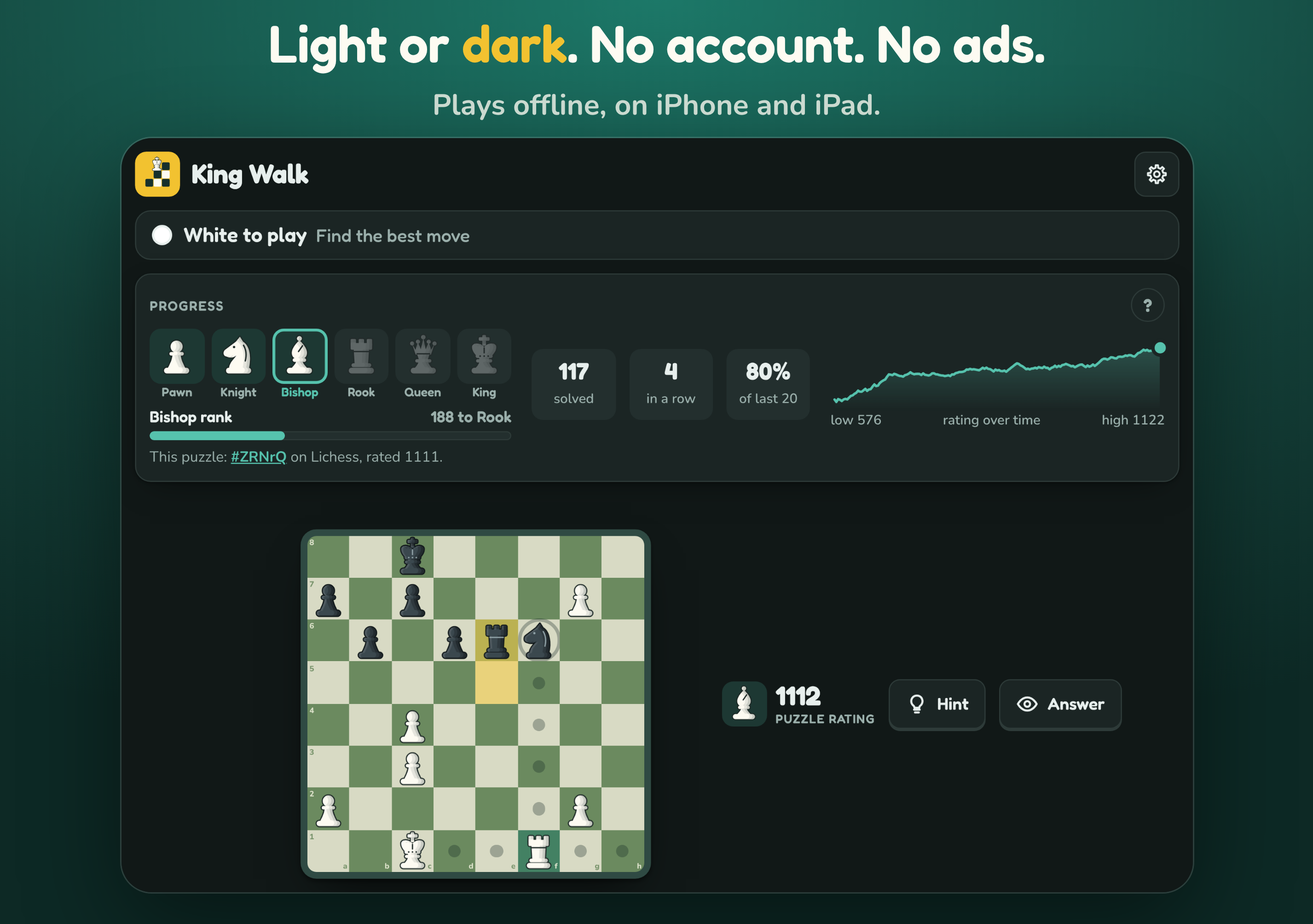
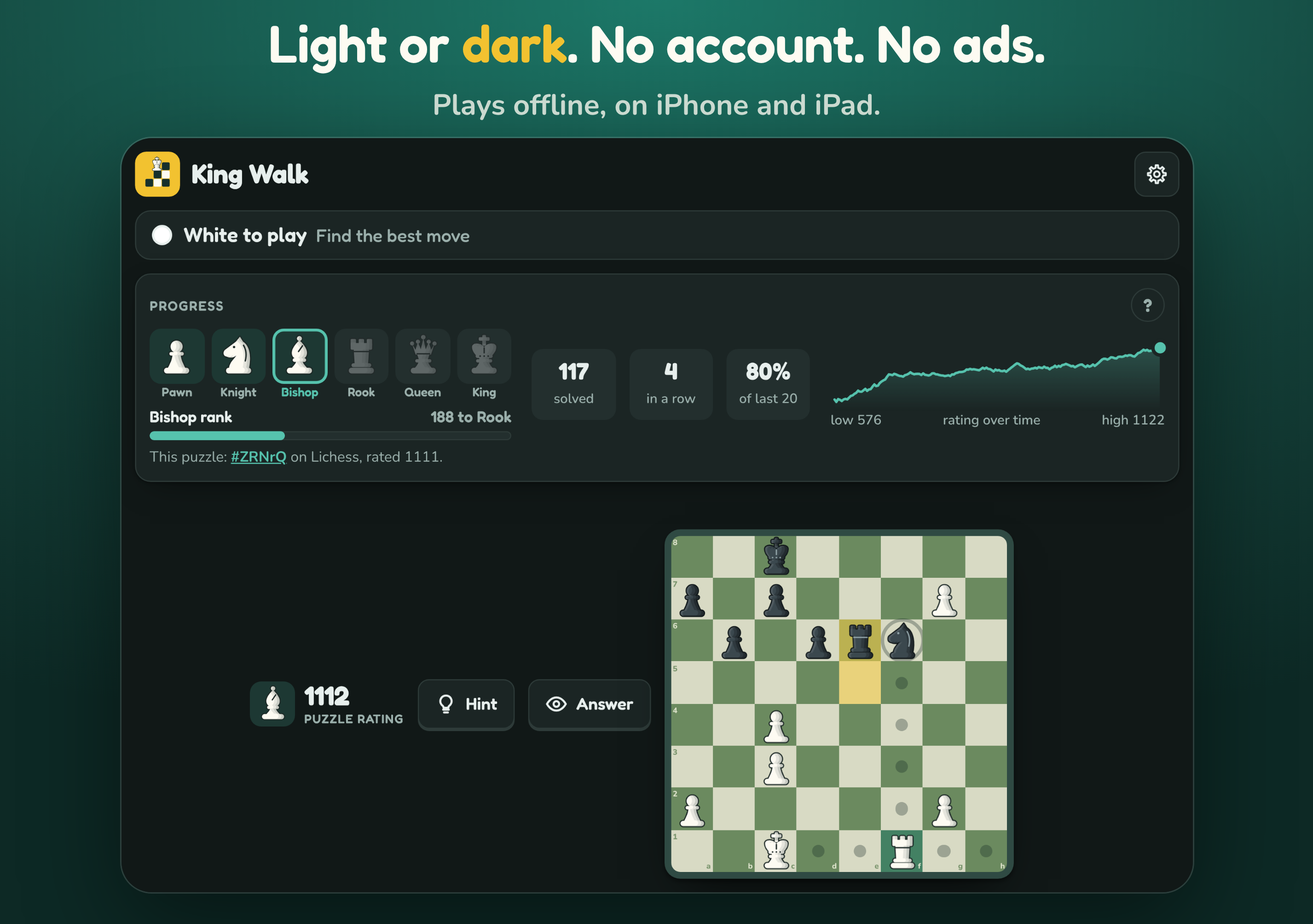
Book layout for iPhone Duo, and a left-handed layout
- Held like a book: the board page (status, board, buttons, ladder and stats) and a notes page (the rating
  chart and how ranks work), each filled. The board is on the right page.
- Propped up like a laptop and with a phone on its side, the board is now on the right too.
- Menu → Left-handed layout puts the board on the left in all three.
- Tests for the board's side in each layout; book screenshots; events fold/book, lefty-on, lefty-off.

Claude-Session: https://claude.ai/code/session_01Gz6UpCNqeV6v9yfsNTJcE1

Changed region(s): [[0.1872, 0.5561, 0.8423, 0.9576]]

diff --git a/index.html b/index.html
@@ -104,11 +104,13 @@ body { margin: 0; background: var(--bg); color: var(--fg); font-family: var(--fo
   .progress { width: 100%; }
 }
 @supports (height: 100dvh) { @media (min-width: 840px) { .wrap { --bw: min(616px, max(276px, calc(100dvh - var(--u) * 6 - var(--bar) - 88px)), calc(100vw - var(--u) * 2 - 366px)); } } }
-/* phone held sideways: board on the left sized to the screen height, everything else on the right
-   (the header moves to the right column too, so the board can use the whole height; the board stays put as the right side scrolls) */
+/* phone held sideways: the board on one side sized to the screen height, everything else beside it. The board is on
+   the right, under a right thumb; the Left-handed layout setting (html.board-left) puts it on the left. The header
+   moves into the other column, so the board can use the whole height; the board stays put as that column scrolls. */
 @media (orientation: landscape) and (max-height: 520px) {
-  .wrap { --bw: max(230px, calc(100vh - var(--u) * 2)); max-width: 1100px; grid-template-columns: var(--bw) minmax(0, 1fr); column-gap: 14px; align-items: start;
-    grid-template-areas: "board top" "board menu" "board status" "board actions" "board progress"; grid-template-rows: auto auto auto auto 1fr; }
+  .wrap { --bw: max(230px, calc(100vh - var(--u) * 2)); max-width: 1100px; grid-template-columns: minmax(0, 1fr) var(--bw); column-gap: 14px; align-items: start;
+    grid-template-areas: "top board" "menu board" "status board" "actions board" "progress board"; grid-template-rows: auto auto auto auto 1fr; }
+  html.board-left .wrap { grid-template-columns: var(--bw) minmax(0, 1fr); grid-template-areas: "board top" "board menu" "board status" "board actions" "board progress"; }
   .main { display: contents; }
   .main > * + * { margin-top: var(--gap); }
   .top { grid-area: top; } .menu { grid-area: menu; }
@@ -122,7 +124,8 @@ body { margin: 0; background: var(--bg); color: var(--fg); font-family: var(--fo
    its buttons lie on the bottom half, under your hands. Nothing sits on the fold. --fold-a is where the fold starts
    from the top of the screen and --fold-w how tall it is. The page's blocks become cells of one grid (.main's
    display: contents), so the halves can mix blocks from the header and the main area. A fold from top to bottom
-   (held like a book) keeps the usual layout. */
+   (held like a book) has its own layout below. The board is on the right half, or the left with the Left-handed
+   layout setting (html.board-left). */
 html.fold-h { overflow: hidden; }
 html.fold-h body { padding: 0; }
 html.fold-h body::before { display: none; }
@@ -133,7 +136,7 @@ html.fold-h .wrap {
   --bw: min(calc(100dvh - var(--fold-a) - var(--fold-w) - var(--u) * 2), calc(55vw - var(--u) * 2));
   grid-template-columns: minmax(0, 1fr) minmax(0, 1fr);
   grid-template-rows: auto auto minmax(0, 1fr) var(--fold-w) calc(100dvh - var(--fold-a) - var(--fold-w));
-  grid-template-areas: "top top" "status status" "progress progress" ". ." "board actions";
+  grid-template-areas: "top top" "status status" "progress progress" ". ." "actions board";
   column-gap: var(--u);
 }
 html.fold-h .top { grid-area: top; width: auto; justify-self: stretch; margin: var(--u) var(--u) var(--gap); }
@@ -147,9 +150,44 @@ html.fold-h .progress > :nth-child(1) { grid-area: head; }
 html.fold-h .progress > .ladder { grid-area: ladder; } html.fold-h .progress > .lad-names { grid-area: names; }
 html.fold-h .progress > .rank-txt { grid-area: rank; } html.fold-h .progress > .stats { grid-area: stats; align-self: center; }
 html.fold-h .progress > :nth-child(6) { grid-area: chart; align-self: center; } html.fold-h .progress > .note { grid-area: info; }
-html.fold-h .frame { width: var(--bw); align-self: center; justify-self: end; }
-html.fold-h .actions { width: auto; align-self: center; margin-right: var(--u); max-width: 420px; }
+html.fold-h .frame { width: var(--bw); align-self: center; justify-self: start; }
+html.fold-h .actions { width: auto; align-self: center; justify-self: end; margin-left: var(--u); max-width: 420px; }
+/* left-handed: the board on the left half, the buttons on the right */
+html.fold-h.board-left .wrap { grid-template-areas: "top top" "status status" "progress progress" ". ." "board actions"; }
+html.fold-h.board-left .frame { justify-self: end; }
+html.fold-h.board-left .actions { justify-self: start; margin-left: 0; margin-right: var(--u); }
 html.fold-h .actions .bar-row { flex-wrap: wrap; }
+/* ---------- a fold from top to bottom (iPhone Duo or another foldable, held like a book) ----------
+   Two pages, each a column (foldLayout moves the blocks into them): the board page has the status, the board, its
+   buttons and the rank ladder with the stats; the other page has the header and the rest of the progress card, its
+   rating chart grown to fill the page. The board page is on the right, or the left with the Left-handed layout. */
+html.fold-v { overflow: hidden; }
+html.fold-v body { padding: 0; }
+html.fold-v body::before { display: none; }
+html.fold-v .wrap { display: flex; max-width: none; height: 100vh; height: 100dvh; padding: 0; gap: var(--fold-w); }
+html.fold-v .wrap > .main { display: none; }
+.page { display: none; }
+html.fold-v .page { display: flex; flex-direction: column; gap: var(--gap); flex: none; height: 100%; box-sizing: border-box; padding: var(--u); overflow: auto; }
+html.fold-v .page > * { width: auto; margin: 0; justify-self: auto; }
+html.fold-v .page.notes { order: 1; width: var(--fold-a); }
+html.fold-v .page.board { order: 2; width: calc(100vw - var(--fold-a) - var(--fold-w)); justify-content: center; }
+html.fold-v.board-left .page.board { order: 1; width: var(--fold-a); }
+html.fold-v.board-left .page.notes { order: 2; width: calc(100vw - var(--fold-a) - var(--fold-w)); }
+html.fold-v .page.board .frame { width: 100%; }
+html.fold-v .page.notes .progress { flex: 1 1 auto; display: flex; flex-direction: column; min-height: 0; }
+html.fold-v .page.notes .progress > div:has(.chart-wrap) { flex: 1 1 auto; display: flex; flex-direction: column; min-height: 140px; }
+html.fold-v .page.notes .chart-wrap { flex: 1 1 auto; height: auto; min-height: 120px; max-height: 240px; }
+html.fold-v .page.notes .progress > div:has(.chart-wrap) { max-height: 280px; }
+/* the notes page also shows how ranks and ratings work, open, like the commentary beside a diagram */
+html.fold-v .page.notes #rankHelp { grid-template-rows: 1fr; opacity: 1; margin-top: var(--gap); }
+html.fold-v .page.notes #helpBtn { display: none; }
+html.fold-v .page.board .play-btns .btn svg.ic { display: none; }
+html.fold-v .page.board .play-btns .btn { padding: 0 12px; }
+html.fold-v .page.board .bar-row { flex-wrap: wrap; row-gap: var(--gap); }
+html.fold-v .page.board .done-btns { flex: 1 1 100%; max-width: none; }
+html.fold-v .page.notes .menu { flex: none; }
+.ranks-card { display: none; }
+html.fold-v .page.board .ranks-card { display: grid; }
 /* tablets held upright (iPad): one column with a big board, the progress card below it */
 @media (min-width: 700px) and (orientation: portrait) and (min-height: 960px) {
   .wrap { max-width: none; --bw: min(calc(100vw - var(--u) * 2), calc(100vh - 470px), 900px); }
@@ -472,6 +510,7 @@ body::before { content: ""; position: fixed; inset: 0 0 auto; height: env(safe-a
       <div class="card stack">
         <p class="label">Settings</p>
         <div class="setrow"><span id="soundLabel">Sound</span><button type="button" id="soundBtn" class="switch" aria-pressed="true" aria-labelledby="soundLabel"></button></div>
+        <div class="setrow" title="With the phone on its side or folded, put the board on the left instead of the right"><span id="leftyLabel">Left-handed layout</span><button type="button" id="leftyBtn" class="switch" aria-pressed="false" aria-labelledby="leftyLabel"></button></div>
         <div class="setrow" id="hapticsRow" hidden><span id="hapticsLabel">Haptics</span><button type="button" id="hapticsBtn" class="switch" aria-pressed="true" aria-labelledby="hapticsLabel"></button></div>
         <div class="setrow"><span>Puzzle difficulty</span>
           <div class="seg" id="modeSeg">
@@ -670,11 +709,11 @@ function cleanState(raw) {
     players.push(q);
   }
   if (!players.length) return null;
-  return { v: 2, updatedAt: +raw.updatedAt || 0, cur: clamp(raw.cur | 0, 0, players.length - 1), sound: raw.sound !== false, haptics: raw.haptics !== false, rateAsked: +raw.rateAsked || 0, players };
+  return { v: 2, updatedAt: +raw.updatedAt || 0, cur: clamp(raw.cur | 0, 0, players.length - 1), sound: raw.sound !== false, haptics: raw.haptics !== false, lefty: raw.lefty === true, rateAsked: +raw.rateAsked || 0, players };
 }
 function writeLocal() { try { localStorage.setItem(LS_KEY, JSON.stringify(S)); } catch (e) {} }
 function loadLocal() { try { return cleanState(JSON.parse(localStorage.getItem(LS_KEY))); } catch (e) { return null; } }
-let S = loadLocal() || { v: 2, updatedAt: 0, cur: 0, sound: true, haptics: true, rateAsked: 0, players: [newPlayer(START_RATING)] };
+let S = loadLocal() || { v: 2, updatedAt: 0, cur: 0, sound: true, haptics: true, lefty: false, rateAsked: 0, players: [newPlayer(START_RATING)] };
 if (S.updatedAt) writeLocal();          /* store the cleaned copy */
 const me = () => S.players[S.cur];
 function save() { S.updatedAt = Date.now(); writeLocal(); }
@@ -1339,6 +1378,8 @@ function renderPanel(fromRating) {
   $("modeSeg").style.setProperty("--i", MODE_INDEX[p.mode]);
   $("soundBtn").setAttribute("aria-pressed", String(S.sound));
   $("hapticsBtn").setAttribute("aria-pressed", String(S.haptics !== false));
+  $("leftyBtn").setAttribute("aria-pressed", String(!!S.lefty));
+  document.documentElement.classList.toggle("board-left", !!S.lefty);
   /* chart: every value is a number from cleanState or finish, so building the markup from them is safe */
   const h = p.hist, mn = Math.min(...h), mx = Math.max(...h), span = Math.max(40, mx - mn);
   const X = i => h.length < 2 ? 296 : 4 + i / (h.length - 1) * 292, Y = v => 56 - (v - mn) / span * 48;
@@ -1356,6 +1397,7 @@ $("nextBtn").addEventListener("click", nextPuzzle);
 $("menuBtn").addEventListener("click", () => toggleSection($("menuBtn"), $("menu")));
 $("helpBtn").addEventListener("click", () => toggleSection($("helpBtn"), $("rankHelp")));
 $("soundBtn").addEventListener("click", () => { S.sound = !S.sound; save(); renderPanel(); wakeAudio(); if (S.sound) setTimeout(sfx.move, 60); else track("sound-off"); haptic("toggle"); });
+$("leftyBtn").addEventListener("click", () => { S.lefty = !S.lefty; save(); renderPanel(); haptic("toggle"); track(S.lefty ? "lefty-on" : "lefty-off"); });
 $("hapticsBtn").addEventListener("click", () => { S.haptics = S.haptics === false; save(); renderPanel(); if (S.haptics) haptic("toggle"); else track("haptics-off"); });
 $("modeSeg").addEventListener("click", e => { const b = e.target.closest("button"); if (b && MODES[b.dataset.mode] !== undefined && me().mode !== b.dataset.mode) { me().mode = b.dataset.mode; save(); renderPanel(); haptic("toggle"); track("mode/" + b.dataset.mode); } });
 $("shareBtn").addEventListener("click", () => shareProgress($("shareBtn")));
@@ -1407,7 +1449,7 @@ $("loadCode").addEventListener("click", () => {
 /* ---------- a fold (see the CSS) ----------
    The iOS app on iPhone Duo reports the fold with window.kingWalkFold({x, y, w, h}) in CSS pixels (null when there
    is none); other foldables report it through the browser's viewport segments. ?fold=h fakes one across the
-   middle of the screen, for testing and the store screenshots (?fold=v, one from top to bottom, changes nothing). */
+   middle of the screen (?fold=v one from top to bottom), for testing and the store screenshots. */
 const Fold = { app: null, fake: (location.search.match(/[?&]fold=([vh])/) || [])[1], key: "" };
 function foldRect() {
   if (Fold.app) return Fold.app;
@@ -1420,16 +1462,33 @@ function foldRect() {
   if (Fold.fake === "h") return { x: 0, y: innerHeight / 2, w: innerWidth, h: 0 };
   return null;
 }
+/* Held like a book, the blocks move into two page columns (see the CSS), and back when the fold goes */
+const Book = { moved: [], pages: null };
+function bookPages(on) {
+  if (on === !!Book.moved.length) return;
+  if (!on) { while (Book.moved.length) { const [n, parent, next] = Book.moved.pop(); parent.insertBefore(n, next); } return; }
+  if (!Book.pages) {
+    const mk = cls => { const d = document.createElement("div"); d.className = "page " + cls; document.querySelector(".wrap").append(d); return d; };
+    const ranks = document.createElement("section"); ranks.className = "card stack ranks-card"; ranks.setAttribute("aria-label", "Rank");
+    Book.pages = { notes: mk("notes"), board: mk("board"), ranks };
+  }
+  const move = (n, to) => { Book.moved.push([n, n.parentNode, n.nextSibling]); to.append(n); };
+  const P = Book.pages, prog = document.querySelector(".progress");
+  move(document.querySelector(".top"), P.notes); move($("menu"), P.notes); move(prog, P.notes);
+  move($("status"), P.board); move(frameEl, P.board); move(document.querySelector(".actions"), P.board); move(P.ranks, P.board);
+  for (const sel of [".ladder", ".lad-names", ".rank-txt", ".stats"]) move(prog.querySelector(sel), P.ranks);
+}
 function foldLayout() {
   const f = foldRect(), root = document.documentElement;
-  const kind = f && f.w > f.h ? "h" : "";          /* only a fold across the screen changes the layout (see the CSS) */
+  const kind = f ? (f.w > f.h ? "h" : "v") : "";          /* across: laptop; top to bottom: book (see the CSS) */
   const key = kind + (f ? [f.x, f.y, f.w, f.h].map(Math.round).join() : "");
   if (key === Fold.key) return;
   const changed = !!Fold.key !== !!kind || Fold.key[0] !== kind;
   Fold.key = key;
-  root.classList.toggle("fold-h", kind === "h");
-  if (kind) { root.style.setProperty("--fold-a", Math.max(0, f.y) + "px"); root.style.setProperty("--fold-w", Math.max(0, f.h) + "px"); }
-  if (changed && kind) { track("fold/table"); haptic("toggle"); }
+  root.classList.toggle("fold-h", kind === "h"); root.classList.toggle("fold-v", kind === "v");
+  if (kind) { root.style.setProperty("--fold-a", Math.max(0, kind === "v" ? f.x : f.y) + "px"); root.style.setProperty("--fold-w", Math.max(0, kind === "v" ? f.w : f.h) + "px"); }
+  bookPages(kind === "v");
+  if (changed && kind) { track(kind === "v" ? "fold/book" : "fold/table"); haptic("toggle"); }
 }
 window.kingWalkFold = r => { Fold.app = r && (r.w > 0 || r.h > 0 || r.x > 0 || r.y > 0) ? r : null; foldLayout(); };
 foldLayout(); addEventListener("resize", foldLayout);

diff --git a/testing/smoke.js b/testing/smoke.js
@@ -74,15 +74,18 @@ async function run(b, url, app) {
     }
     console.log(name, "rating", r.rating, app ? "messages " + [...new Set(r.sent)].join(", ") : "");
   }
-  // a fold across the screen (iPhone Duo propped up): the board stays below it
-  for (const [w, h, q, cls] of [[951, 669, "?fold=h", "fold-h"]]) {
+  // the board's side: right for right-handed players, left with the Left-handed layout; on screen, off the fold.
+  // Held like a book (fold-v), propped up like a laptop (fold-h, the board below the fold too), a phone on its side
+  for (const lefty of [false, true]) for (const [w, h, q, name] of [[669, 951, "?fold=v", "book"], [951, 669, "?fold=h", "laptop"], [844, 390, "", "sideways"]]) {
     const ctx = await b.newContext({ viewport: { width: w, height: h } }), p = await ctx.newPage();
-    await p.route(/zgo\.at|goatcounter/, r => r.abort()); await p.goto(srv.url + q); await p.waitForTimeout(800);
-    const f = await p.evaluate(() => { const r = $("frame").getBoundingClientRect(), g = $("status").getBoundingClientRect();
-      return { cls: document.documentElement.className, board: [r.left, r.top, r.right, r.bottom], status: [g.left, g.top, g.right, g.bottom], w: innerWidth, h: innerHeight }; });
-    const mid = cls === "fold-v" ? f.w / 2 : f.h / 2, [a, , c] = cls === "fold-v" ? [f.board[0], 0, f.board[2]] : [f.board[1], 0, f.board[3]];
-    const ok = f.cls.includes(cls) && (c <= mid + 1 || a >= mid - 1) && f.board[2] <= f.w + 1 && f.board[3] <= f.h + 1;
-    if (!ok) { bad++; console.log("FAIL", cls, "board crosses the fold or the screen edge", JSON.stringify(f)); } else console.log(cls, "board on one side of the fold");
+    await p.route(/zgo\.at|goatcounter/, r => r.abort());
+    if (lefty) await p.addInitScript(() => { if (!sessionStorage.getItem("s")) { sessionStorage.setItem("s", 1); localStorage.setItem("chess-climb-v1", JSON.stringify({ v: 2, updatedAt: 1, cur: 0, sound: true, lefty: true, players: [{ rating: 600, hist: [600] }] })); } });
+    await p.goto(srv.url + q); await p.waitForTimeout(900);
+    const f = await p.evaluate(() => { const r = $("frame").getBoundingClientRect(); return { l: r.left, t: r.top, r: r.right, b: r.bottom, w: innerWidth, h: innerHeight }; });
+    const onLeft = f.r <= f.w / 2 + 1, onRight = f.l >= f.w / 2 - 1, below = f.t >= f.h / 2 - 1;
+    const ok = (lefty ? onLeft : onRight) && f.r <= f.w + 1 && f.b <= f.h + 1 && (name !== "laptop" || below);
+    const label = name + (lefty ? ", left-handed" : "");
+    if (!ok) { bad++; console.log("FAIL", label, "board in the wrong place", JSON.stringify(f)); } else console.log(label + ": board on the " + (lefty ? "left" : "right"));
     await ctx.close();
   }
   await b.close(); srv.close();

diff --git a/ios/store/screenshots.js b/ios/store/screenshots.js
@@ -1,6 +1,6 @@
 // Makes the App Store screenshots: loads the game with a saved player partway up the ranks, poses five moments,
 // captures the screen at the exact device size, then frames each with a caption.
-// usage: node ios/store/screenshots.js [iphone|ipad|duo-inner|duo-table]   (default: all). Needs Playwright.
+// usage: node ios/store/screenshots.js [iphone|ipad|duo-inner|duo-book|duo-table]   (default: all). Needs Playwright.
 // Output: ios/store/screenshots/<device>-<n>.png (captioned, upload these) and raw/<device>-<n>.png.
 const { chromium } = require("playwright");
 const fs = require("fs"), path = require("path");
@@ -8,14 +8,16 @@ const server = require("../../testing/server");
 const DEVICES = {   // App Store sizes: iPhone 6.9" 1320x2868, iPad 13" 2064x2752, iPhone Duo inner screen 2007x2853
   iphone: { viewport: { width: 440, height: 956 }, deviceScaleFactor: 3, isMobile: true, hasTouch: true },
   ipad: { viewport: { width: 1032, height: 1376 }, deviceScaleFactor: 2, isMobile: true, hasTouch: true },
-  // iPhone Duo: open flat, and propped up like a laptop (q fakes the fold across the middle; see Fold in index.html)
+  // iPhone Duo: open flat, held like a book and propped up like a laptop (q fakes the fold; see Fold in index.html)
   "duo-inner": { viewport: { width: 669, height: 951 }, deviceScaleFactor: 3, isMobile: true, hasTouch: true },
+  "duo-book": { viewport: { width: 669, height: 951 }, deviceScaleFactor: 3, isMobile: true, hasTouch: true, q: "?fold=v" },
   "duo-table": { viewport: { width: 951, height: 669 }, deviceScaleFactor: 3, isMobile: true, hasTouch: true, q: "?fold=h" },
 };
 const FRAME = { iphone: { cap: 34, sub: 19, top: 0.17, r: 30 }, ipad: { cap: 56, sub: 28, top: 0.15, r: 22 },   // caption sizes, caption band height, corner radius
-  "duo-inner": { cap: 40, sub: 22, top: 0.17, r: 26 }, "duo-table": { cap: 38, sub: 21, top: 0.15, r: 22 } };
+  "duo-inner": { cap: 40, sub: 22, top: 0.17, r: 26 }, "duo-book": { cap: 40, sub: 22, top: 0.17, r: 26 }, "duo-table": { cap: 38, sub: 21, top: 0.15, r: 22 } };
 // captions that say what a half-open iPhone Duo does, in place of the usual ones
 const CAPTIONS = {
+  "duo-book": { 1: { caption: "Open it like a <b>book</b>", sub: "The board on one page, the notes on the other." } },
   "duo-table": { 1: { caption: "Prop it up like a <b>laptop</b>", sub: "The board lies flat under your hands. Your progress stands up to read." } },
 };
 const SHOTS = [

diff --git a/press/index.html b/press/index.html
@@ -57,7 +57,7 @@ footer{margin-top:56px;padding-top:18px;border-top:1px solid var(--line);font-si
       <li>Easier, Just right or Harder, to set the pace</li>
       <li>iPhone and iPad: Game Center leaderboards and 13 achievements, a home screen and Lock Screen widget, iCloud sync, haptics</li>
       <li>Share your progress as a few emoji: rank, rating and the last ten puzzles</li>
-      <li>On iPhone Duo, prop it up like a laptop: the board lies flat under your hands, your progress stands up to read</li>
+      <li>On iPhone Duo, prop it up like a laptop or hold it like a book, with the board on whichever side suits your hand</li>
       <li>Light and dark mode, plays offline</li>
       <li>No account, no ads, no in-app purchases</li>
     </ul>

diff --git a/ios/store/listing.md b/ios/store/listing.md
@@ -11,7 +11,7 @@ The text, URLs, categories, age rating, review notes and screenshots are uploade
 | App icon (light, dark, tinted) | 1024×1024 | `node ios/scripts/art.js` from `brand/mark-square.svg` | Done: `ios/KingWalk/Assets.xcassets/AppIcon.appiconset/` |
 | iPhone screenshots, 6.9" | 1320×2868, 3 to 10 | `node ios/store/screenshots.js iphone` | Done: `screenshots/iphone-1` to `5` |
 | iPad screenshots, 13" | 2064×2752, 3 to 10 | `node ios/store/screenshots.js ipad` | Done: `screenshots/ipad-1` to `5` |
-| iPhone Duo screenshots | inner screen 2007×2853 (open) and 2853×2007 (propped up) | `node ios/store/screenshots.js duo-inner`, `duo-table` | Done: one set of five, `APP_IPHONE_DUO` in `listing.json` |
+| iPhone Duo screenshots | inner screen 2007×2853 (open, or held like a book) and 2853×2007 (propped up) | `node ios/store/screenshots.js duo-inner`, `duo-book`, `duo-table` | Done: one set of five, `APP_IPHONE_DUO` in `listing.json` |
 | App preview video (iPhone, also used for iPhone Duo) | 886×1920, 15 to 30 s, stereo audio track | `node scripts/trailer.js --preview` | `previews/iphone-1.mp4` |
 | Product page header and search results art (iOS 27) | 5244×2950 (16:9), no alpha | `node ios/store/header.js` | Done: `header/universal-16x9.png` (+ 21:9 and 3:2 cuts) |
 | Game Center achievement images | 512×512, 13 of them | `node ios/scripts/art.js` | Done: `gamecenter/*.png` |
@@ -57,7 +57,8 @@ Optional, later: a Promotional Event card (needs a 1920×1080 image, no text), i
 > • Game Center leaderboards and achievements
 > • A home screen and Lock Screen widget with your rank and rating
 > • Share your progress: your rank, rating and last ten puzzles in a few emoji
-> • On iPhone Duo, prop it up like a laptop: the board lies flat under your hands and your progress stands up to read
+> • On iPhone Duo, prop it up like a laptop (the board lies flat under your hands) or hold it like a book (the board on one page, the notes on the other)
+> • A left-handed layout that puts the board on the left when your phone is on its side or folded
 > • Progress syncs between your iPhone and iPad with iCloud
 > • Haptics, light and dark mode, and a board you can tap or drag
 > • Plays fully offline
@@ -85,7 +86,7 @@ Five per device, in this order. Each is the real game at the device's size, fram
 | 4 | Walk up from Pawn to King | The progress card right after reaching Rook: the ladder, stats and chart |
 | 5 | Light or dark. No account. No ads. | Dark mode, a piece picked up with its moves shown |
 
-**iPhone Duo** (one set, `APP_IPHONE_DUO`): `duo-table-1` ("Prop it up like a laptop": the board on the flat half, the scoreboard on the upright half), `duo-inner-2`, `duo-table-4`, `duo-inner-3`, `duo-table-5`. The other `duo-*` files are there to swap in. If Apple's API refuses the Duo type, the upload skips that set and says so; it can go up by hand.
+**iPhone Duo** (one set, `APP_IPHONE_DUO`): `duo-table-1` ("Prop it up like a laptop": the board on the flat half, the scoreboard on the upright half), `duo-book-2` (held like a book: the board on the right page), `duo-table-4`, `duo-inner-3`, `duo-table-5`. The other `duo-*` files are there to swap in. If Apple's API refuses the Duo type, the upload skips that set and says so; it can go up by hand.
 
 Ideas for later sets: the widget on a home screen (needs a real device screenshot), Game Center achievements, an iPad landscape shot, the emoji share text in Messages.
 
@@ -135,7 +136,7 @@ Uploaded from `review_notes` in `listing.json` (App Review Information → Notes
 > - Home screen and Lock Screen widget: shows the player's rank and rating.
 >
 > WHAT THE APP ADDS ON iOS
-> Haptic feedback for moves, captures, wrong moves and solves; Game Center leaderboards (puzzle rating, best streak) and 13 achievements; a home screen and Lock Screen widget; iCloud sync of progress between the player's devices; the iOS share sheet (an emoji summary of the player's progress with a link to the App Store page); on iPhone Duo half open like a laptop, a layout with the board on the flat half and progress on the upright half; light and dark appearance, portrait and landscape. All 53,000 puzzles are bundled, so it plays fully offline.
+> Haptic feedback for moves, captures, wrong moves and solves; Game Center leaderboards (puzzle rating, best streak) and 13 achievements; a home screen and Lock Screen widget; iCloud sync of progress between the player's devices; the iOS share sheet (an emoji summary of the player's progress with a link to the App Store page); on iPhone Duo, layouts for half open like a laptop (the board on the flat half, progress on the upright half) and like a book (the board on one page, notes on the other), with a left-handed option; light and dark appearance, portrait and landscape. All 53,000 puzzles are bundled, so it plays fully offline.
 >
 > EXTERNAL SERVICES
 > None are needed to play. Optional: Game Center (Apple), iCloud key-value storage (Apple) for syncing progress, and GoatCounter, which receives anonymous event counts (for example, "reached Bishop rank") with no personal data, no identifiers and no cookies. Each puzzle has a link to its page on lichess.org, which opens in Safari.

diff --git a/ios/README.md b/ios/README.md
@@ -30,7 +30,7 @@ The page talks to the app through `window.webkit.messageHandlers.kingwalk`; the 
 - **Widget** (`KingWalkWidget/`): home screen (small, medium) and Lock Screen (circular, rectangular, inline). Shows the rank with its piece, the rating, progress to the next rank, and on the medium size the rating chart and stats. The page sends the numbers after each puzzle; the app saves them in the app group (`group.` + the bundle ID) and refreshes the widget.
 - **iCloud saves** (`SaveStore.swift`): the save is copied to iCloud key-value storage, and on launch the newer copy wins, so progress carries over between the player's iPhone and iPad.
 - **Share sheet**: the Share button under the board after each puzzle (and Menu → Share) opens the iOS share sheet with an emoji summary: rank, rating, the last ten puzzles and the streak, linking to the App Store page (`APP_STORE_ID`), or the website until that is set. On the web, Share uses the browser's share sheet or copies the text, linking to the website.
-- **iPhone Duo**: built with Xcode 27.1, the app fills the inner screen and reports the fold to the page. Propped up like a laptop, the board and its buttons lie on the flat half and the status and progress stand up on the other. Held like a book, it keeps the usual layout. The app also turns to landscape on iPhone.
+- **iPhone Duo**: built with Xcode 27.1, the app fills the inner screen and reports the fold to the page. Propped up like a laptop, the board and its buttons lie on the flat half and the status and progress stand up on the other. Held like a book, the board, its buttons, the ladder and stats are on one page and the rating chart and the notes on how ranks work on the other. The board is on the right (the flat half's right side, or the right page), or on the left with Menu → Left-handed layout, which also decides its side with a phone held sideways. The app also turns to landscape on iPhone.
 - **Rating prompt**: right after a clean solve, once the player has solved 20 puzzles, at most every 4 months, never right after a rank-up. iOS decides whether it actually shows.
 - **Sound** plays even with the ring switch on silent (the game's own Sound switch turns it off), mixed with the player's music.
 - Light and dark mode follow the system, and the layout uses the whole screen around the notch and home indicator.

diff --git a/testing/STATS.md b/testing/STATS.md
@@ -15,7 +15,8 @@ Every event is named `<prefix>/<event>`. The prefix is `king-walk` for the websi
 | `back/1d`, `back/7d`, `back/30d` | The game is opened 1, 7 or 30 days or more after the player's first visit (once each) | startup |
 | `mode/<easy\|normal\|hard>` | The puzzle difficulty is changed | the difficulty buttons |
 | `share` | Share is pressed (under the board after a puzzle, or in the menu) | `shareProgress()` |
-| `fold/table` | The screen is folded across, like a laptop (iPhone Duo or another foldable), once per fold | `foldLayout()` |
+| `fold/table`, `fold/book` | The screen is folded across like a laptop, or top to bottom like a book (iPhone Duo or another foldable), once per fold | `foldLayout()` |
+| `lefty-on`, `lefty-off` | The Left-handed layout setting is turned on or off | menu |
 | `gamecenter` | The Game Center button is pressed (app only) | menu |
 | `rate-ask` | The app asks iOS to show the rating prompt (iOS may not show it) | `maybeAskForRating()` |
 | `sound-off`, `haptics-off` | Sound or haptics turned off | menu |

diff --git a/README.md b/README.md
@@ -41,7 +41,7 @@ Plays a few puzzles in a browser (Playwright) on the web and in a simulated iOS 
 
 ## Stats
 
-The game sends anonymous events to GoatCounter: no cookies, no identifiers, nothing linked to a person. `testing/STATS.md` lists them: `start`, `platform/<device>`, `played/<n>`, `rank/<name>`, `back/<days>`, `mode/<difficulty>`, `share`, `fold/table`, `gamecenter`, `rate-ask`, `sound-off`, `haptics-off`, `reset`, `save-code/copy`, `save-code/load`. The privacy policy is `privacy.html`.
+The game sends anonymous events to GoatCounter: no cookies, no identifiers, nothing linked to a person. `testing/STATS.md` lists them: `start`, `platform/<device>`, `played/<n>`, `rank/<name>`, `back/<days>`, `mode/<difficulty>`, `share`, `fold/table`, `fold/book`, `lefty-on`, `lefty-off`, `gamecenter`, `rate-ask`, `sound-off`, `haptics-off`, `reset`, `save-code/copy`, `save-code/load`. The privacy policy is `privacy.html`.
 
 ## Your own copy
 
